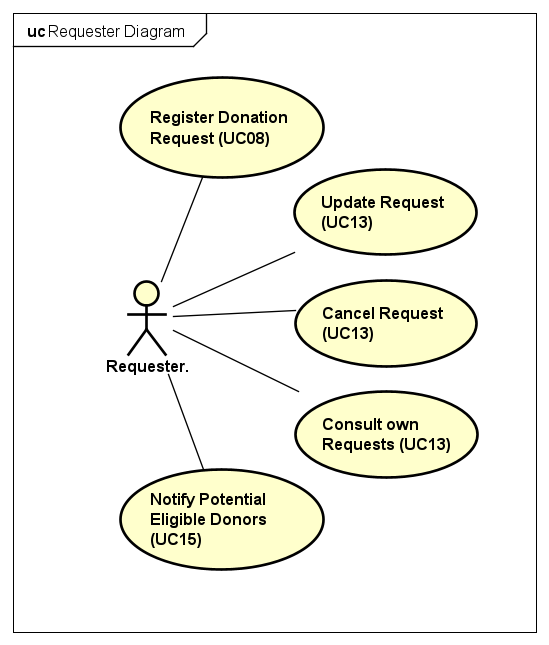
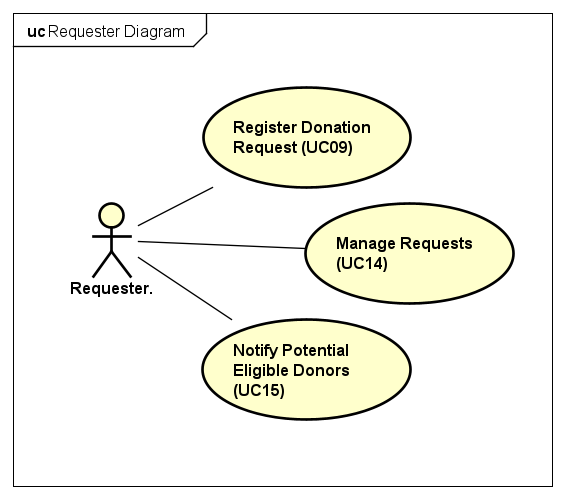
docs(tcc): uml use case diagrams

diff --git a/tcc-latex/capitulos/05-estudo-de-caso.tex b/tcc-latex/capitulos/05-estudo-de-caso.tex
@@ -118,14 +118,14 @@ A modelagem de casos de uso, em notação UML, sintetiza as operações disponí
   \fonte{Elaborado pelos próprios autores (2026).}
 \end{table}
 
-A representação gráfica dessas interações é dividida de acordo com o nível de acesso dos atores. A Figura~\ref{fig:uc-guest} apresenta o diagrama de caso de uso do ator (\textit{Guest}).
+A representação gráfica dessas interações é dividida de acordo com o nível de acesso dos atores. A Figura~\ref{fig:uc-access-baseProfiles} apresenta o diagrama de caso de uso do ator (\textit{Guest}).
 
 \begin{figure}[H]
   \centering
-  \caption{Diagrama de caso de uso de visitante}
-  \includegraphics[width=0.6\textwidth]{figura03-uc-visitante}
+  \caption{Diagrama de caso de uso de acesso e perfis base}
+  \includegraphics[width=0.6\textwidth]{figura03-uc-acesso-perfisBase}
   \fonte{Elaborado pelos próprios autores (2026).}
-  \label{fig:uc-guest}
+  \label{fig:uc-access-baseProfiles}
 \end{figure}
 
 O ator \textit{Guest} representa utilizadores sem cadastro prévio, limitados às operações de criação de contas e autenticação (UC01, UC02 e UC03).
